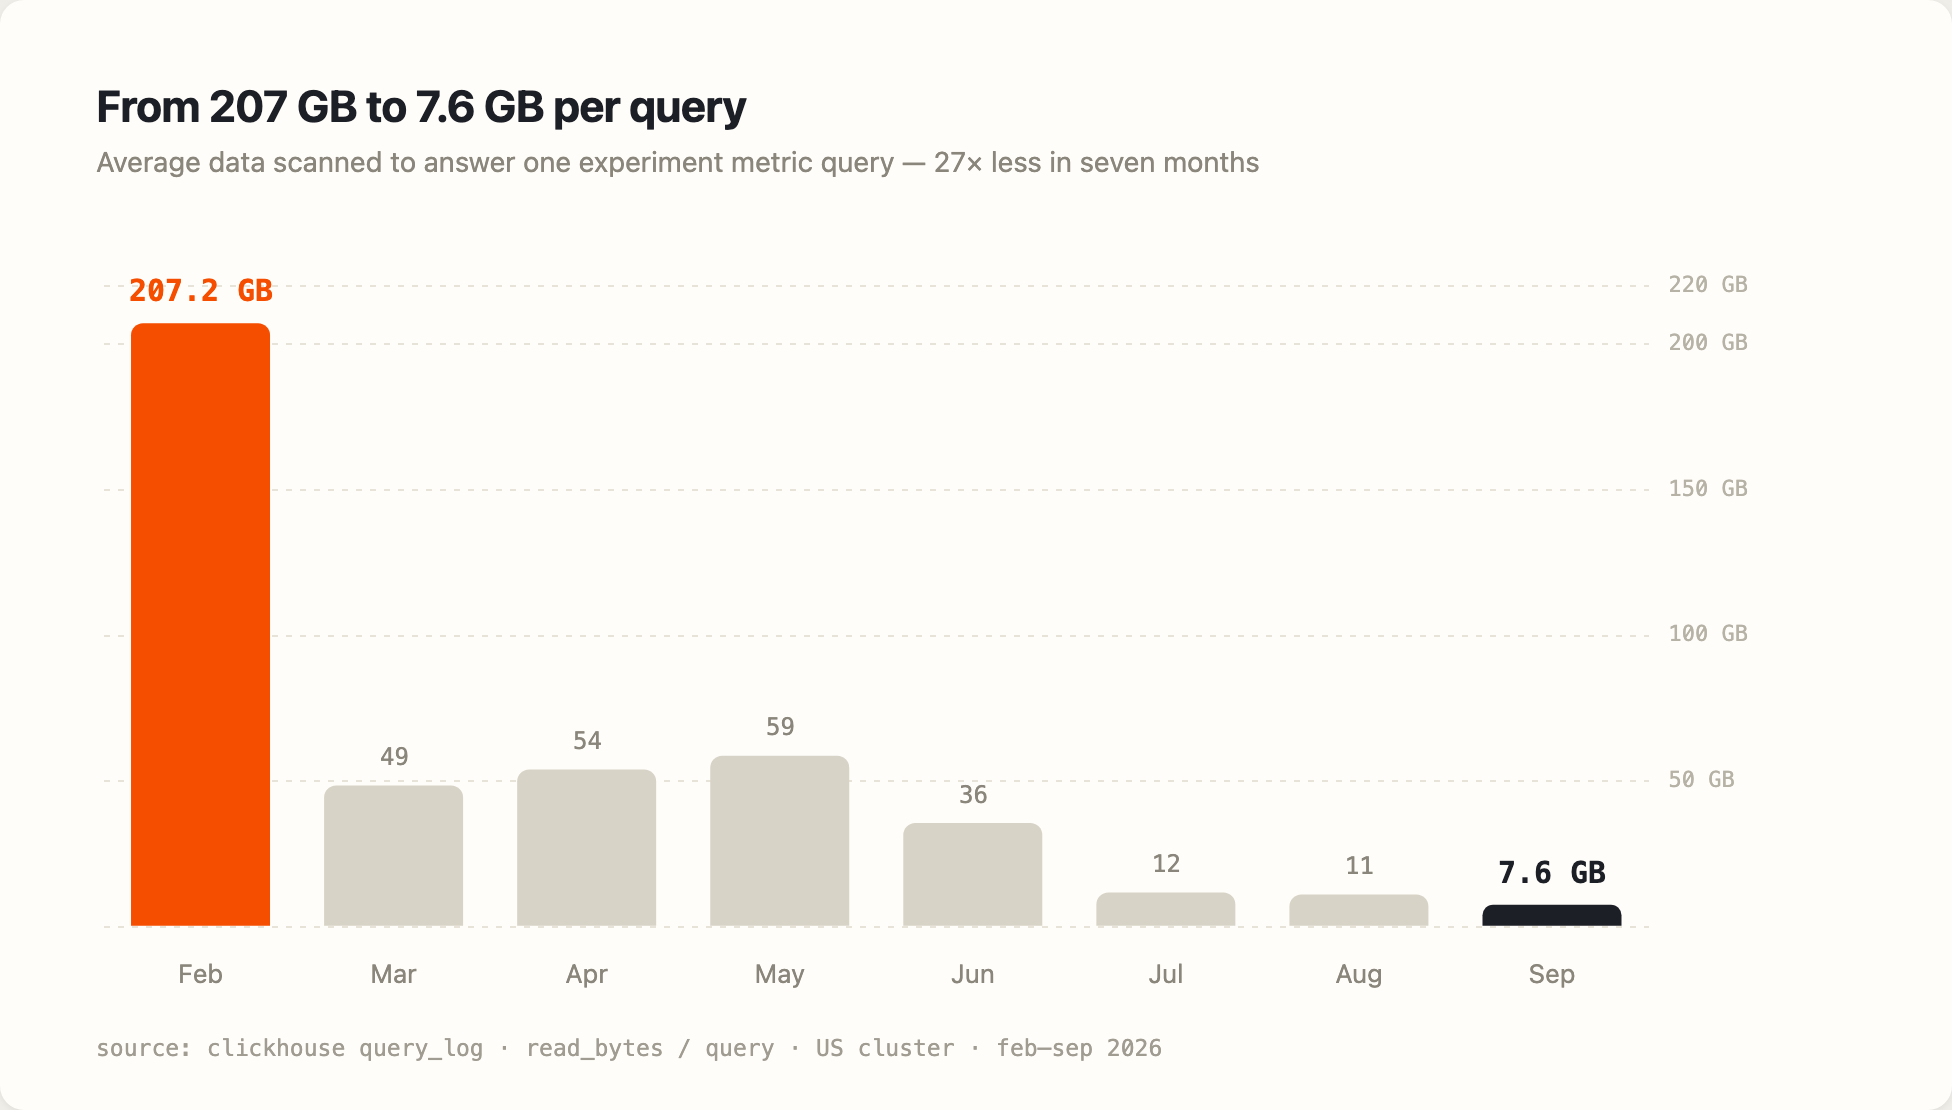
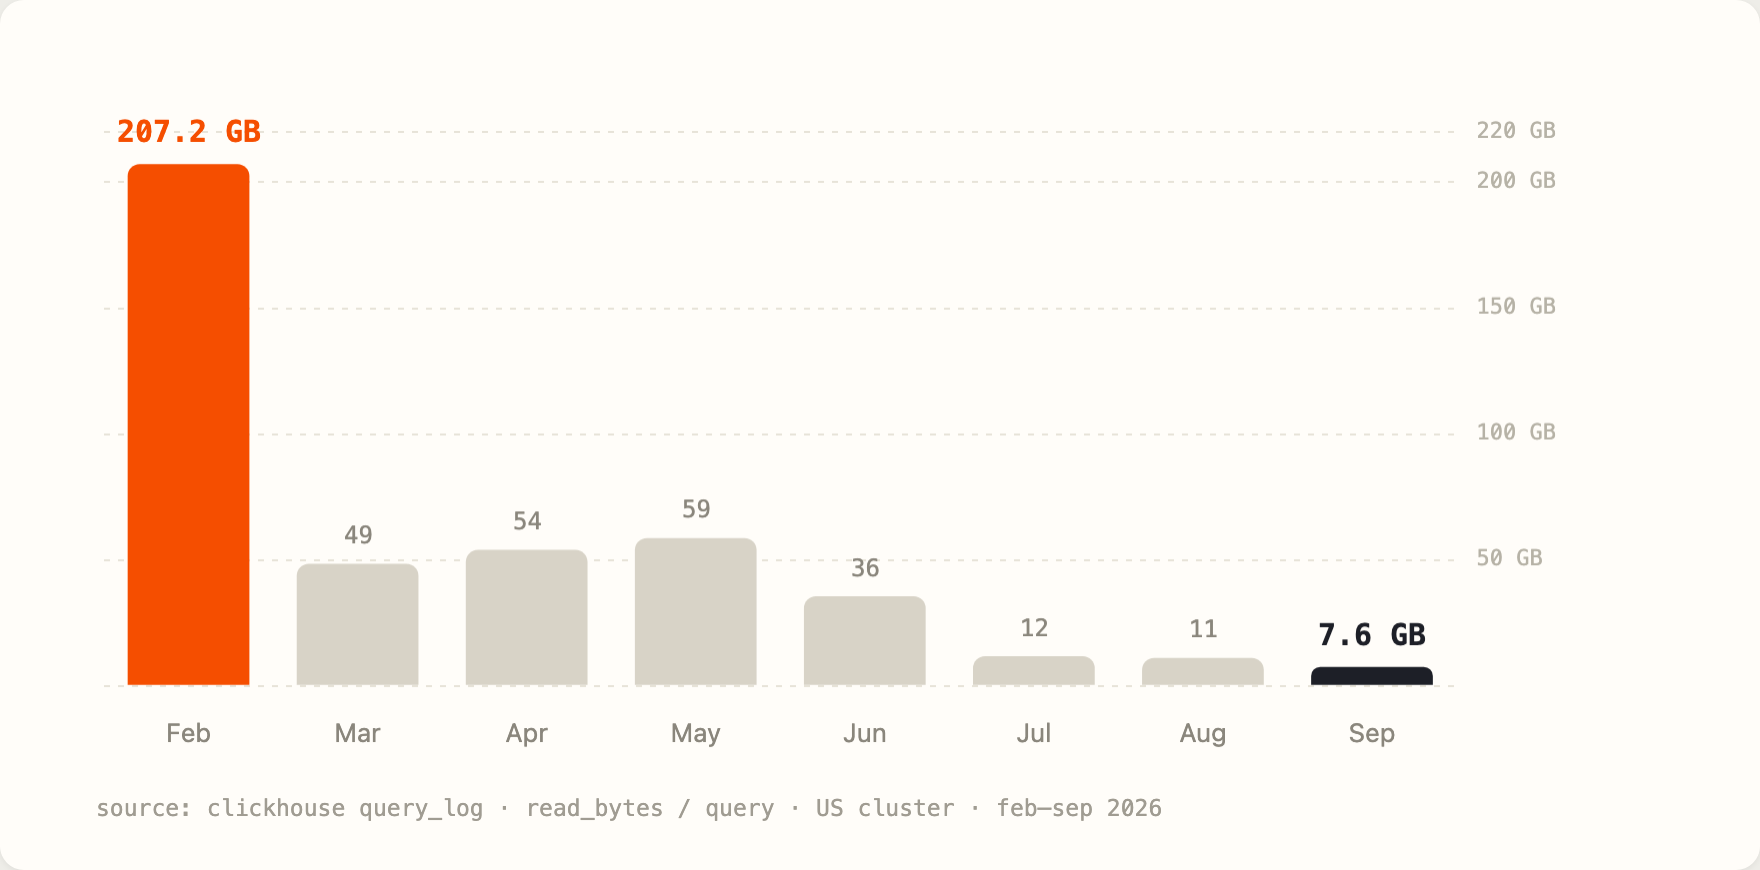
Move chart titles into captions per site convention

diff --git a/contents/blog/how-we-made-experiment-queries-fast.md b/contents/blog/how-we-made-experiment-queries-fast.md
@@ -11,7 +11,9 @@ tags:
 
 > In February, the p95 latency of our experiment queries was 19 seconds, and the slowest 1% took over a minute and a half. Queries regularly died because they timed out, ran out of memory, or scanned more data than our cluster allowed. By September, p95 was down to 4 seconds and those failures were 14 times rarer, while monthly query volume more than tripled. This post is about what we did to make this happen.
 
-![Monthly experiment query volume tripled in 2026 while p95 latency fell from 18.9 to 4.3 seconds and p99 from 91.4 to 13.5 seconds](/images/experiment-queries/latency-volume.png)
+![Monthly experiment query volume against p95 and p99 latency, February to September 2026](/images/experiment-queries/latency-volume.png)
+
+<Caption>3.5x the queries, one fifth the latency: monthly query volume more than tripled while p95 latency fell from 18.9 to 4.3 seconds and p99 from 91 to 13.5 seconds. The latency axis is square-root scaled.</Caption>
 
 PostHog Experiments first shipped in December 2021 as a very minimal tool. Built on top of our Feature Flags, it was initially just a simple wrapper around our Product Analytics – a single funnel query with some statistical calculations on top.
 
@@ -72,7 +74,9 @@ To solve this uncertainty for good, we built a comprehensive canary testing suit
 
 The payoff of all this work is visible in how much data a query needs to touch:
 
-![Average data scanned per experiment query fell from 207 GB in February to 7.6 GB in September](/images/experiment-queries/gb-per-query.png)
+![Average data scanned per experiment metric query by month, February to September 2026](/images/experiment-queries/gb-per-query.png)
+
+<Caption>Average data scanned to answer one experiment metric query: from 207 GB in February to 7.6 GB in September, a 27x reduction.</Caption>
 
 ## 3. Optimize the SQL
 
